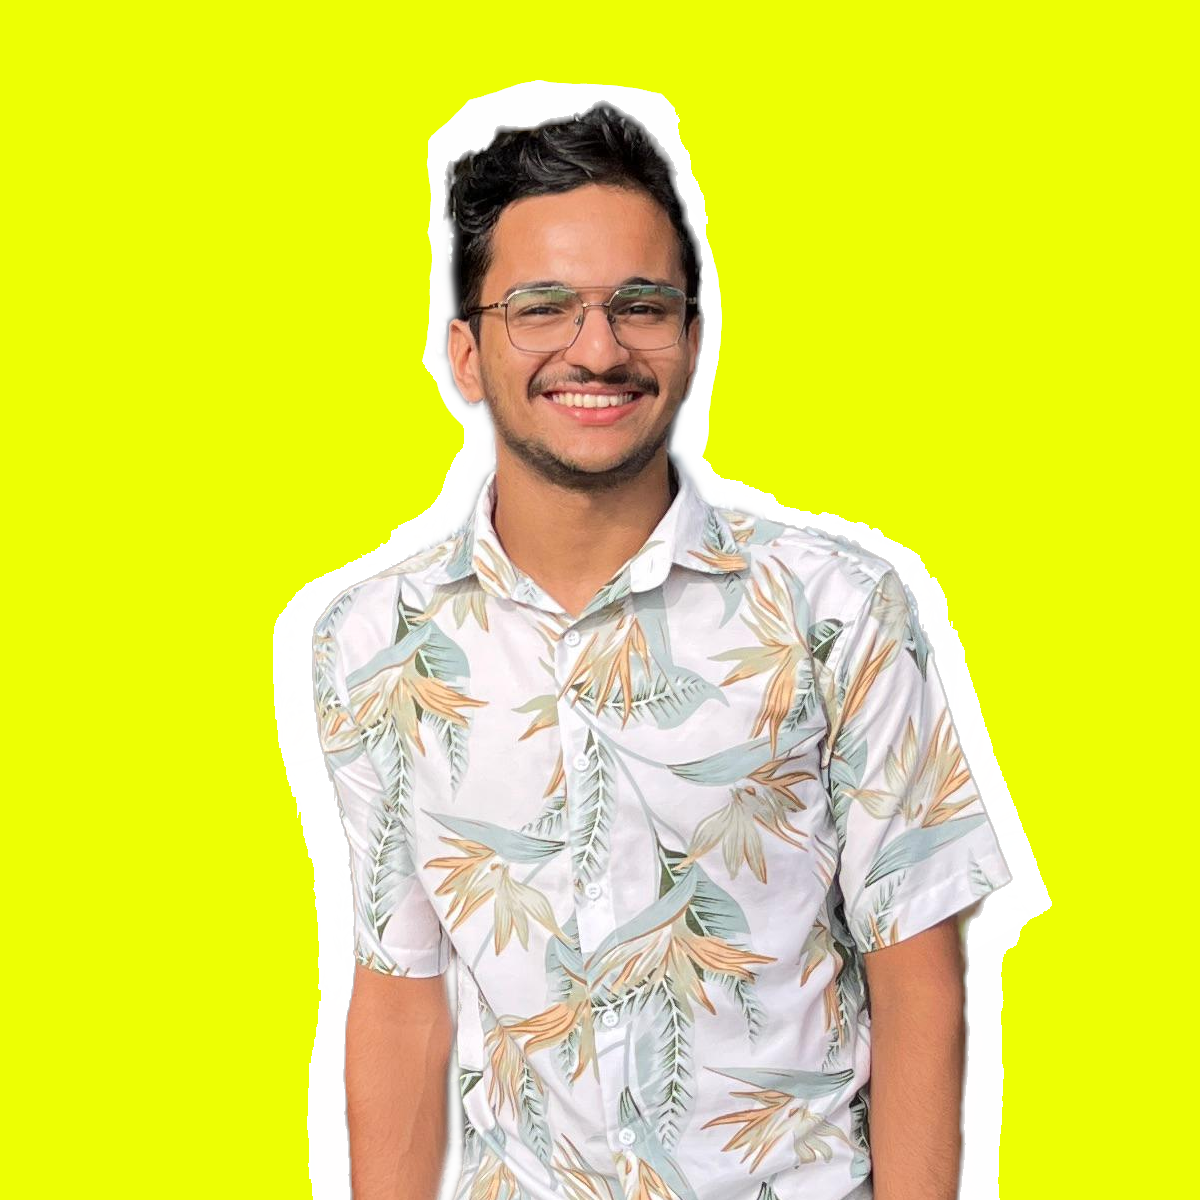
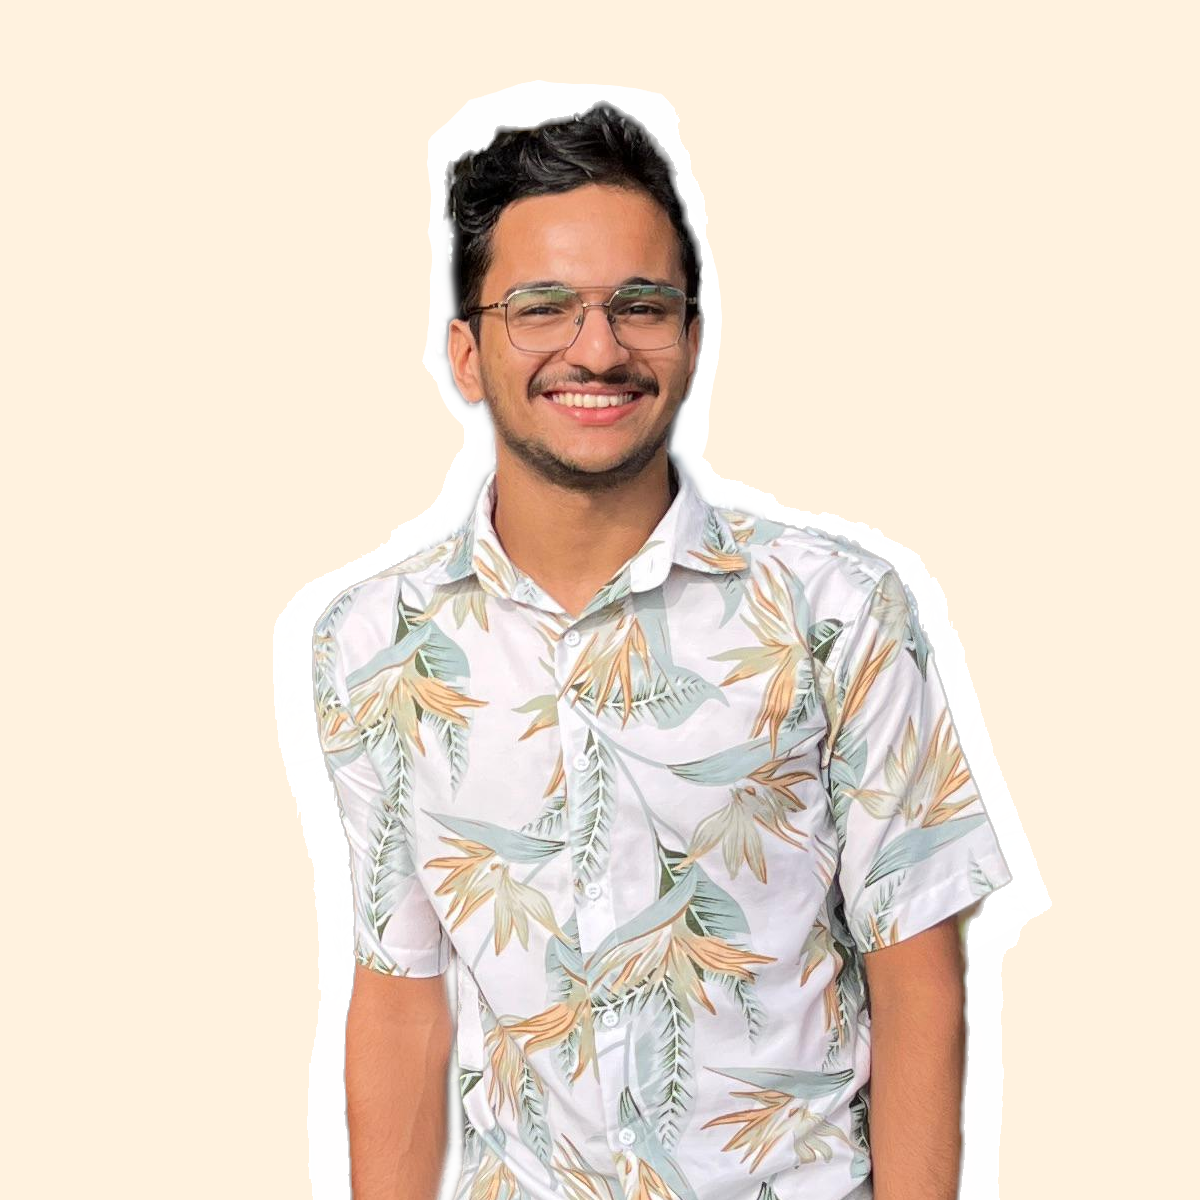
Fixed color schemes

diff --git a/assets/css/extended/custom-theme.css b/assets/css/extended/custom-theme.css
@@ -1,0 +1,159 @@
+/* Custom theme overrides */
+:root {
+    --theme: linear-gradient(160deg, #fff2df 0%, #fff4e3 100%);
+    --entry: rgba(255, 255, 255, 0.95);
+    --primary: #2c1810;
+    --secondary: #594317;
+    --tertiary: rgba(89, 67, 23, 0.16);
+    --content: #2c1810;
+    --hljs-bg: #fff8e7;
+    --code-bg: #fff8e7;
+    --border: #ffd70050;
+}
+
+.dark {
+    --theme: linear-gradient(200deg, #1f1f1f 0%, #2d2d2d 50%, #383838 100%);
+    --entry: rgba(35, 35, 35, 0.95);
+    --primary: #ffffff;
+    --secondary: #e0e0e0;
+    --tertiary: rgba(255, 255, 255, 0.16);
+    --content: #f0f0f0;
+    --hljs-bg: #2a2a2a;
+    --code-bg: #2a2a2a;
+    --border: #ffffff30;
+}
+
+/* Apply gradient background to body */
+body {
+    background: var(--theme);
+}
+
+/* Custom element styling */
+.post-title {
+    color: var(--primary);
+}
+
+.post-content a,
+.post-content a:hover {
+    color: #594317;
+    box-shadow: 0 1px 0 #594317;
+}
+
+.dark .post-content a,
+.dark .post-content a:hover {
+    color: #ffffff;
+    box-shadow: 0 1px 0 #ffffff;
+}
+
+.button {
+    background: #2c1810;
+    color: #fff4e3;
+}
+
+.button:hover {
+    background: #594317;
+}
+
+.dark .button {
+    background: #ffffff;
+    color: #1f1f1f;
+}
+
+.dark .button:hover {
+    background: #e0e0e0;
+}
+
+.social-icons a {
+    color: var(--primary);
+}
+
+.social-icons a:hover {
+    color: #594317;
+}
+
+.dark .social-icons a:hover {
+    color: #ffffff;
+}
+
+.post-entry {
+    border: 1px solid var(--border);
+    background: var(--entry);
+    box-shadow: 0 2px 4px rgba(0,0,0,0.1);
+}
+
+.menu {
+    color: var(--primary);
+}
+
+.menu a:hover {
+    color: #594317;
+}
+
+.dark .menu a:hover {
+    color: #ffffff;
+}
+
+code {
+    background: var(--code-bg);
+    border: 1px solid var(--border);
+    color: var(--content);
+}
+
+blockquote {
+    border-left: 4px solid #594317;
+    background: var(--tertiary);
+    color: var(--content);
+}
+
+.dark blockquote {
+    border-left: 4px solid #ffffff;
+}
+
+.pagination a:hover {
+    background: var(--tertiary);
+}
+
+/* Additional text color fixes */
+.post-content {
+    color: var(--content);
+}
+
+.post-meta {
+    color: var(--secondary);
+}
+
+.post-description {
+    color: var(--secondary);
+}
+
+/* Projects page specific styles */
+.terms-tags li {
+    background: var(--entry);
+    border: 1px solid var(--border);
+}
+
+.terms-tags a {
+    color: var(--primary);
+}
+
+.terms-tags a:hover {
+    color: #594317;
+}
+
+.dark .terms-tags a:hover {
+    color: #ffffff;
+}
+
+.terms-tags .terms-count {
+    color: var(--secondary);
+}
+
+/* Card styles for projects */
+.post-entry {
+    transition: transform 0.2s ease, box-shadow 0.2s ease;
+}
+
+.post-entry:hover {
+    transform: translateY(-2px);
+    box-shadow: 0 4px 8px rgba(0,0,0,0.15);
+}
